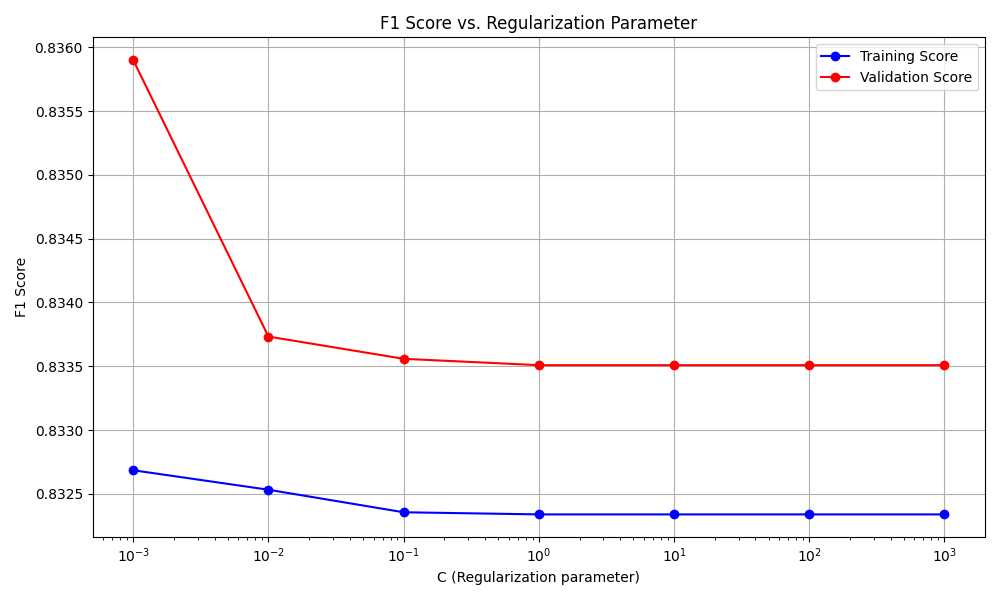
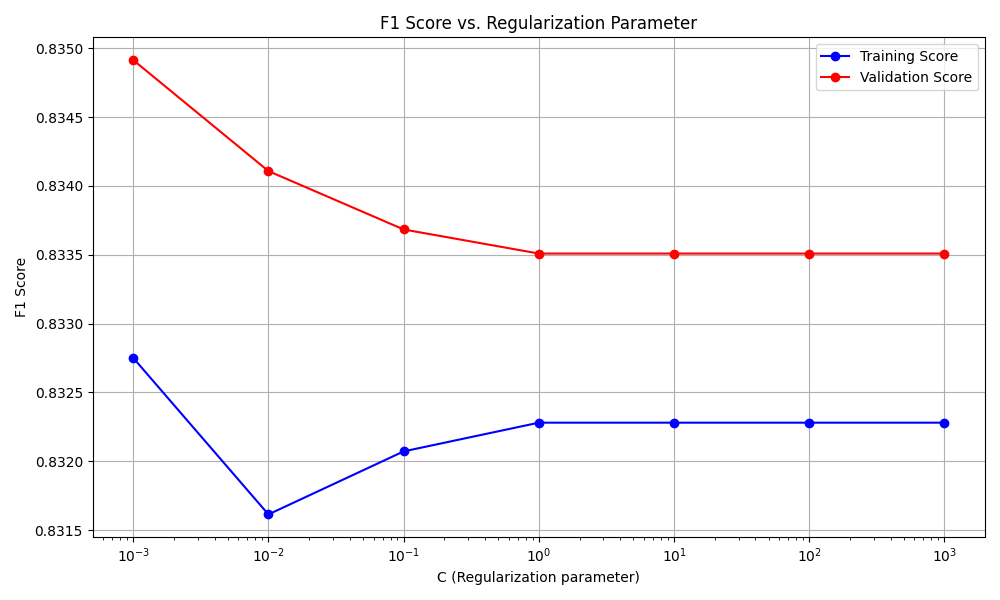
fix data_preprocessing

diff --git a/midterm/data_preprocessing.py b/midterm/data_preprocessing.py
@@ -70,12 +70,18 @@ def load_and_preprocess_data():
     )  # 0.25 * 0.8 = 0.2 of the original data
 
     # Standardize numerical features
-    scaler = StandardScaler()
-    numerical_cols = X.select_dtypes(include=['int64', 'float64']).columns
+    # Chỉ chuẩn hoá các cột liên tục/ordinal phù hợp
+    columns_to_scale = [
+        'Age', 'Academic Pressure', 'CGPA', 'Study Satisfaction',
+        'Sleep Duration', 'Work/Study Hours', 'Financial Stress',
+        'Dietary Habits'
+    ]
 
-    X_train[numerical_cols] = scaler.fit_transform(X_train[numerical_cols])
-    X_val[numerical_cols] = scaler.transform(X_val[numerical_cols])
-    X_test[numerical_cols] = scaler.transform(X_test[numerical_cols])
+    scaler = StandardScaler()
+
+    X_train[columns_to_scale] = scaler.fit_transform(X_train[columns_to_scale])
+    X_val[columns_to_scale] = scaler.transform(X_val[columns_to_scale])
+    X_test[columns_to_scale] = scaler.transform(X_test[columns_to_scale])
 
     # Check for any NaN values in the processed data
     nan_count = np.isnan(X_train.values).sum()
